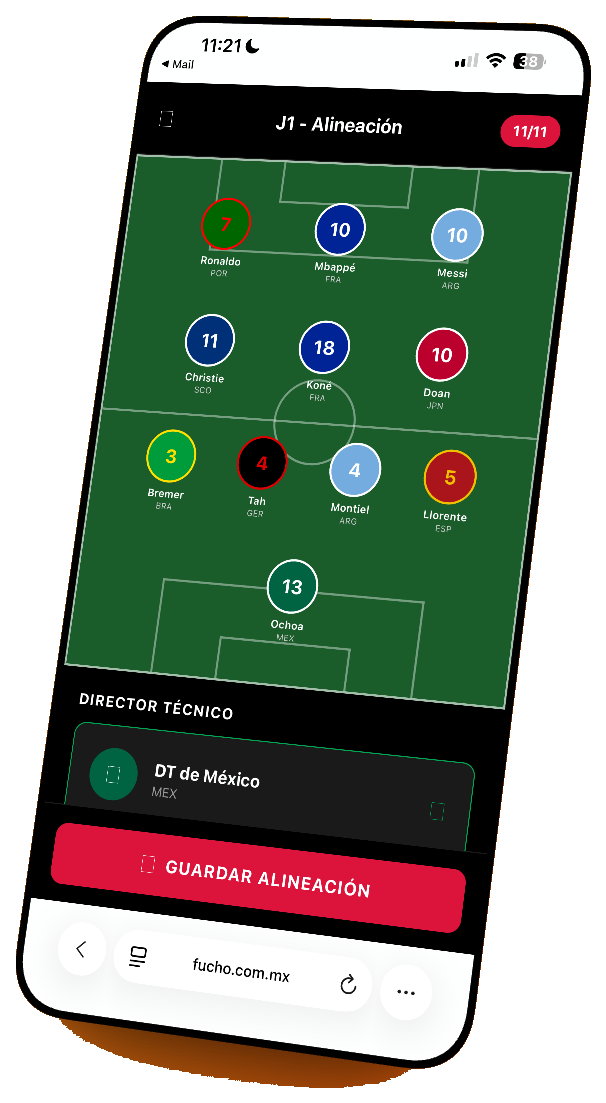
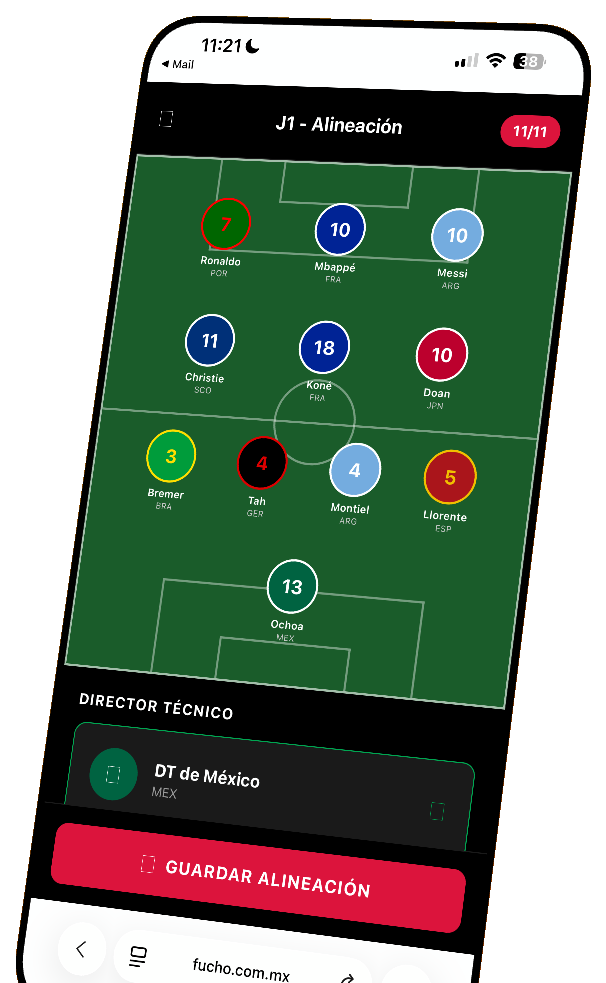
fix(landing): recortar naranja base del mockup + reemplazar Ionicons con emojis
mockup-app.png:
- Recortados 120px del fondo (naranja confirmado hasta y=1087 del total 1103px)
- Nueva dimensión: 606x983px
- Ratio actualizado en LandingPage.tsx: 0.549 → 0.617 (W*983/606)
- MOCKUP_H: 419→373, MOCKUP_H_WIDE: 537→479 (hero reajustado automáticamente)

Ionicons → emojis:
- Features primary: ⚽ FuchoQuiniela, 👕 FuchoOnce
- Features secondary: 👥 Ligas Privadas, 🏆 Logros, 📊 Rankings, 🎁 Sin costo
- Steps (desktop bubbles): 👤 crear cuenta, 👥 crear liga, ⚽ predecir
- CTA: ⚽ decorativo sobre el headline, 🚀 en el botón
- Sponsor stars: ⭐×3
- Ionicons solo queda en hero (rocket — no tocar) y sponsors (logo-whatsapp)

diff --git a/frontend/app/components/LandingPage.tsx b/frontend/app/components/LandingPage.tsx
@@ -6,15 +6,17 @@ import {
 import { useRouter } from 'expo-router';
 import { Ionicons } from '@expo/vector-icons';
 
+// Emojis en lugar de Ionicons para features/steps/CTA — los Ionicons no
+// renderizan como glifos en el build web de Expo (aparecen como cuadros vacíos)
 const PRIMARY_FEATURES = [
   {
-    icon: 'football',
+    emoji: '⚽',
     title: 'FuchoQuiniela',
     desc: 'Predice los 10 partidos de cada jornada antes de que arranquen. Cada acierto sube tu posición en el ranking de tu liga.',
     color: '#E63946',
   },
   {
-    icon: 'shirt',
+    emoji: '👕',
     title: 'FuchoOnce',
     desc: 'Selecciona 11 jugadores reales de Liga MX cada semana. Sus goles, asistencias y actuaciones se convierten en tus puntos.',
     color: '#1D88E5',
@@ -22,23 +24,23 @@ const PRIMARY_FEATURES = [
 ];
 
 const SECONDARY_FEATURES = [
-  { icon: 'people',    title: 'Ligas Privadas',     desc: 'Crea tu liga con código único. Solo entran tus cuates, nadie más.',            color: '#FFD700' },
-  { icon: 'trophy',   title: 'Logros y Rachas',     desc: '20 logros desbloqueables. Cada racha de aciertos tiene su recompensa.',        color: '#2A9D8F' },
-  { icon: 'bar-chart', title: 'Rankings en Vivo',   desc: 'Posiciones actualizadas al minuto. Sabes exactamente dónde estás.',            color: '#FF9800' },
-  { icon: 'gift',     title: 'Sin costo, sin trampa', desc: 'Gratis hoy, gratis siempre. Sin suscripciones ni cobros ocultos.',           color: '#4CAF50' },
+  { emoji: '👥', title: 'Ligas Privadas',      desc: 'Crea tu liga con código único. Solo entran tus cuates, nadie más.',             color: '#FFD700' },
+  { emoji: '🏆', title: 'Logros y Rachas',      desc: '20 logros desbloqueables. Cada racha de aciertos tiene su recompensa.',         color: '#2A9D8F' },
+  { emoji: '📊', title: 'Rankings en Vivo',     desc: 'Posiciones actualizadas al minuto. Sabes exactamente dónde estás.',             color: '#FF9800' },
+  { emoji: '🎁', title: 'Sin costo, sin trampa', desc: 'Gratis hoy, gratis siempre. Sin suscripciones ni cobros ocultos.',             color: '#4CAF50' },
 ];
 
 const STEPS = [
-  { n: '1', icon: 'person-add' as const,  t: 'Crea tu cuenta gratis',             d: 'Regístrate con tu correo en 30 segundos. Sin tarjeta, sin número de teléfono.' },
-  { n: '2', icon: 'people'     as const,  t: 'Crea tu liga y comparte el código', d: 'Tus cuates entran directo con el código. En un minuto ya están todos adentro.' },
-  { n: '3', icon: 'football'   as const,  t: 'Predice cada jornada y compite',    d: 'Antes de cada fecha, predice los 10 partidos. Al final sabes quién sabe más de fut.' },
+  { n: '1', emoji: '👤', t: 'Crea tu cuenta gratis',             d: 'Regístrate con tu correo en 30 segundos. Sin tarjeta, sin número de teléfono.' },
+  { n: '2', emoji: '👥', t: 'Crea tu liga y comparte el código', d: 'Tus cuates entran directo con el código. En un minuto ya están todos adentro.' },
+  { n: '3', emoji: '⚽', t: 'Predice cada jornada y compite',    d: 'Antes de cada fecha, predice los 10 partidos. Al final sabes quién sabe más de fut.' },
 ];
 
-// PNG: 606×1103 → ratio ancho/alto = 0.549
+// PNG: 606×983 (recortado, sin naranja) → ratio ancho/alto = 0.617
 const MOCKUP_W      = 230;
-const MOCKUP_H      = Math.round(MOCKUP_W / 0.549);
+const MOCKUP_H      = Math.round(MOCKUP_W * 983 / 606);    // 373
 const MOCKUP_W_WIDE = 295;
-const MOCKUP_H_WIDE = Math.round(MOCKUP_W_WIDE / 0.549);
+const MOCKUP_H_WIDE = Math.round(MOCKUP_W_WIDE * 983 / 606); // 479
 
 const WRAP_H      = MOCKUP_H + 40;
 const GLOW_R      = 210;
@@ -131,7 +133,7 @@ export default function LandingPage() {
             {PRIMARY_FEATURES.map((f, i) => (
               <View key={i} style={[s.featCard, { borderColor: f.color + '35' }]}>
                 <View style={[s.featCardIcon, { backgroundColor: f.color + '18', borderColor: f.color + '45' }]}>
-                  <Ionicons name={f.icon as any} size={36} color={f.color} />
+                  <Text style={s.featCardEmoji}>{f.emoji}</Text>
                 </View>
                 <Text style={s.featCardTitle}>{f.title}</Text>
                 <Text style={s.featCardDesc}>{f.desc}</Text>
@@ -142,7 +144,7 @@ export default function LandingPage() {
           PRIMARY_FEATURES.map((f, i) => (
             <View key={i} style={s.featPrimaryRow2}>
               <View style={[s.featIcon, { backgroundColor: f.color + '22', borderColor: f.color + '55' }]}>
-                <Ionicons name={f.icon as any} size={30} color={f.color} />
+                <Text style={s.featIconEmoji}>{f.emoji}</Text>
               </View>
               <View style={s.featPrimaryText}>
                 <Text style={s.featPrimaryTitle}>{f.title}</Text>
@@ -159,7 +161,7 @@ export default function LandingPage() {
           {SECONDARY_FEATURES.map((f, i) => (
             <View key={i} style={[s.featSecItem, isWide && s.featSecItemCard]}>
               <View style={[s.featSecIcon, { backgroundColor: f.color + '28', borderColor: f.color + '55', borderWidth: 1 }]}>
-                <Ionicons name={f.icon as any} size={20} color={f.color} />
+                <Text style={s.featSecEmoji}>{f.emoji}</Text>
               </View>
               <View style={{ flex: 1, minWidth: 0 }}>
                 <Text style={s.featSecTitle}>{f.title}</Text>
@@ -171,7 +173,6 @@ export default function LandingPage() {
       </View>
 
       {/* ─── 3 PASOS ─────────────────────────────────────────────────────── */}
-      {/* Wrapper full-width para que el bg #0d0d0d cubra toda la pantalla */}
       <View style={s.stepsBg}>
         <View style={s.stepsInner}>
           <Text style={[s.secTitle, isWide && s.secTitleWide]}>
@@ -183,7 +184,7 @@ export default function LandingPage() {
                 {isWide ? (
                   <>
                     <View style={s.stepBubble}>
-                      <Ionicons name={step.icon} size={26} color="#FFF" />
+                      <Text style={s.stepBubbleEmoji}>{step.emoji}</Text>
                     </View>
                     <Text style={s.stepLabel}>{step.n} de 3</Text>
                     <Text style={s.stepTitleWide}>{step.t}</Text>
@@ -222,9 +223,9 @@ export default function LandingPage() {
             <Text style={s.sponsorGoldBadgeText}>MAYOR VISIBILIDAD</Text>
           </View>
           <View style={s.sponsorStars}>
-            <Ionicons name="star" size={18} color="#FFD700" />
-            <Ionicons name="star" size={18} color="#FFD700" />
-            <Ionicons name="star" size={18} color="#FFD700" />
+            <Text style={s.sponsorStarEmoji}>⭐</Text>
+            <Text style={s.sponsorStarEmoji}>⭐</Text>
+            <Text style={s.sponsorStarEmoji}>⭐</Text>
           </View>
           <Text style={s.sponsorGoldTier}>ORO</Text>
           <Text style={s.sponsorGoldDesc}>
@@ -255,10 +256,9 @@ export default function LandingPage() {
       </View>
 
       {/* ─── CTA FINAL ────────────────────────────────────────────────────── */}
-      {/* ctaWrap full-width: el rojo cubre toda la pantalla, no solo 1100px */}
       <View style={s.ctaWrap}>
         <View style={s.ctaInner}>
-          <Ionicons name="football" size={44} color="rgba(255,255,255,0.20)" style={{ marginBottom: 20 }} />
+          <Text style={s.ctaDecorEmoji}>⚽</Text>
           <Text style={[s.ctaTitle, isWide && s.ctaTitleWide]}>
             ¿Quién de tu grupo{'\n'}sabe más de fut?
           </Text>
@@ -266,7 +266,7 @@ export default function LandingPage() {
             Crea tu quiniela ahora y demuéstralo esta jornada.
           </Text>
           <TouchableOpacity style={s.ctaBtn} onPress={() => router.push('/(auth)/register')}>
-            <Ionicons name="rocket" size={18} color="#C02030" />
+            <Text style={s.ctaBtnEmoji}>🚀</Text>
             <Text style={s.ctaBtnText}>Crear mi quiniela gratis</Text>
           </TouchableOpacity>
           <Text style={s.ctaMicro}>Sin tarjeta · Sin suscripción · 100% gratis</Text>
@@ -301,39 +301,39 @@ const s = StyleSheet.create({
     borderBottomWidth: 1, borderBottomColor: '#1a1a1a',
     width: '100%',
   },
-  navLogo:          { width: 36, height: 36, marginRight: 8 },
-  navBrand:         { color: '#FFF', fontWeight: '900', fontSize: 16, letterSpacing: 1, marginRight: 16 },
-  navBtn:           { paddingHorizontal: 16, paddingVertical: 12, marginRight: 8, minHeight: 44, justifyContent: 'center' },
-  navBtnText:       { color: '#AAA', fontSize: 14 },
-  navBtnPrimary:    { backgroundColor: '#C02030', paddingHorizontal: 16, paddingVertical: 12, borderRadius: 8, minHeight: 44, justifyContent: 'center' },
-  navBtnPrimaryText:{ color: '#FFF', fontWeight: '700', fontSize: 14 },
+  navLogo:           { width: 36, height: 36, marginRight: 8 },
+  navBrand:          { color: '#FFF', fontWeight: '900', fontSize: 16, letterSpacing: 1, marginRight: 16 },
+  navBtn:            { paddingHorizontal: 16, paddingVertical: 12, marginRight: 8, minHeight: 44, justifyContent: 'center' },
+  navBtnText:        { color: '#AAA', fontSize: 14 },
+  navBtnPrimary:     { backgroundColor: '#C02030', paddingHorizontal: 16, paddingVertical: 12, borderRadius: 8, minHeight: 44, justifyContent: 'center' },
+  navBtnPrimaryText: { color: '#FFF', fontWeight: '700', fontSize: 14 },
 
   // ─── HERO (sin cambios) ────────────────────────────────────────────────────
-  hero: { width: '100%', alignItems: 'center', paddingHorizontal: 24, paddingTop: 72, paddingBottom: 72 },
-  heroRow:    { flexDirection: 'row', alignItems: 'center', width: '100%', maxWidth: 1100, gap: 64 },
-  heroLeft:   { flex: 1, minWidth: 0 },
-  heroRight:  { width: 340, height: RIGHT_H, alignItems: 'center', justifyContent: 'center', flexShrink: 0 },
+  hero:            { width: '100%', alignItems: 'center', paddingHorizontal: 24, paddingTop: 72, paddingBottom: 72 },
+  heroRow:         { flexDirection: 'row', alignItems: 'center', width: '100%', maxWidth: 1100, gap: 64 },
+  heroLeft:        { flex: 1, minWidth: 0 },
+  heroRight:       { width: 340, height: RIGHT_H, alignItems: 'center', justifyContent: 'center', flexShrink: 0 },
   heroGlowWide: {
     position: 'absolute', alignSelf: 'center', top: GLOW_TOP_W,
     width: GLOW_R_WIDE, height: GLOW_R_WIDE, borderRadius: GLOW_R_WIDE / 2,
     backgroundColor: '#E63946', opacity: 0.22,
     ...Platform.select({ web: { filter: 'blur(90px)' } as any, default: {} }),
   },
-  heroImgWide:     { width: MOCKUP_W_WIDE, height: MOCKUP_H_WIDE },
-  heroPill:        { borderWidth: 1, borderColor: '#E6394655', borderRadius: 20, paddingHorizontal: 14, paddingVertical: 5, marginBottom: 24 },
-  heroPillText:    { color: '#E63946', fontSize: 11, fontWeight: '800', letterSpacing: 2.5 },
-  heroTitle:       { fontSize: 40, fontWeight: '900', color: '#FFF', textAlign: 'center', lineHeight: 48, marginBottom: 16 },
-  heroTitleWide:   { fontSize: 60, fontWeight: '900', color: '#FFF', lineHeight: 68, marginBottom: 24 },
-  heroSubtitle:    { fontSize: 16, color: '#999', textAlign: 'center', lineHeight: 26, marginBottom: 12 },
-  heroSubtitleWide:{ fontSize: 17, color: '#999', lineHeight: 28, marginBottom: 40 },
-  heroTagline:     { fontSize: 13, color: '#777', textAlign: 'center', letterSpacing: 0.4, marginTop: 20 },
-  heroTaglineWide: { fontSize: 13, color: '#777', letterSpacing: 0.4, marginTop: 20 },
-  heroBtns:        { flexDirection: 'row', gap: 12, flexWrap: 'wrap' },
-  heroBtnPrimary:  { flexDirection: 'row', alignItems: 'center', gap: 8, backgroundColor: '#E63946', paddingHorizontal: 28, paddingVertical: 18, borderRadius: 12 },
-  heroBtnPrimaryText:  { color: '#FFF', fontWeight: '900', fontSize: 16 },
-  heroBtnSecondary:    { paddingHorizontal: 24, paddingVertical: 18, borderRadius: 12, borderWidth: 1, borderColor: '#383838', backgroundColor: '#111', justifyContent: 'center' },
-  heroBtnSecondaryText:{ color: '#AAA', fontSize: 15 },
-  heroMockupWrap:  { alignItems: 'center', justifyContent: 'center', width: '100%', height: WRAP_H, marginTop: 8, marginBottom: 40 },
+  heroImgWide:      { width: MOCKUP_W_WIDE, height: MOCKUP_H_WIDE },
+  heroPill:         { borderWidth: 1, borderColor: '#E6394655', borderRadius: 20, paddingHorizontal: 14, paddingVertical: 5, marginBottom: 24 },
+  heroPillText:     { color: '#E63946', fontSize: 11, fontWeight: '800', letterSpacing: 2.5 },
+  heroTitle:        { fontSize: 40, fontWeight: '900', color: '#FFF', textAlign: 'center', lineHeight: 48, marginBottom: 16 },
+  heroTitleWide:    { fontSize: 60, fontWeight: '900', color: '#FFF', lineHeight: 68, marginBottom: 24 },
+  heroSubtitle:     { fontSize: 16, color: '#999', textAlign: 'center', lineHeight: 26, marginBottom: 12 },
+  heroSubtitleWide: { fontSize: 17, color: '#999', lineHeight: 28, marginBottom: 40 },
+  heroTagline:      { fontSize: 13, color: '#777', textAlign: 'center', letterSpacing: 0.4, marginTop: 20 },
+  heroTaglineWide:  { fontSize: 13, color: '#777', letterSpacing: 0.4, marginTop: 20 },
+  heroBtns:         { flexDirection: 'row', gap: 12, flexWrap: 'wrap' },
+  heroBtnPrimary:   { flexDirection: 'row', alignItems: 'center', gap: 8, backgroundColor: '#E63946', paddingHorizontal: 28, paddingVertical: 18, borderRadius: 12 },
+  heroBtnPrimaryText:   { color: '#FFF', fontWeight: '900', fontSize: 16 },
+  heroBtnSecondary:     { paddingHorizontal: 24, paddingVertical: 18, borderRadius: 12, borderWidth: 1, borderColor: '#383838', backgroundColor: '#111', justifyContent: 'center' },
+  heroBtnSecondaryText: { color: '#AAA', fontSize: 15 },
+  heroMockupWrap:   { alignItems: 'center', justifyContent: 'center', width: '100%', height: WRAP_H, marginTop: 8, marginBottom: 40 },
   heroGlow: {
     position: 'absolute', alignSelf: 'center', top: GLOW_TOP,
     width: GLOW_R, height: GLOW_R, borderRadius: GLOW_R / 2,
@@ -342,145 +342,96 @@ const s = StyleSheet.create({
   },
   heroImg: { width: MOCKUP_W, height: MOCKUP_H },
 
-  // ─── SECTION base (sin bg especial) ───────────────────────────────────────
-  section: {
-    width: '100%', maxWidth: 1100, alignSelf: 'center',
-    paddingHorizontal: 24, paddingVertical: 72,
-  },
-  secTag: { color: '#E63946', fontSize: 11, fontWeight: '800', letterSpacing: 3, marginBottom: 12, textAlign: 'center' },
-  secTitle:    { fontSize: 28, fontWeight: '900', color: '#FFF', textAlign: 'center', marginBottom: 48, lineHeight: 36 },
-  secTitleWide:{ fontSize: 38, lineHeight: 46 },
+  // ─── SECTION ──────────────────────────────────────────────────────────────
+  section:      { width: '100%', maxWidth: 1100, alignSelf: 'center', paddingHorizontal: 24, paddingVertical: 72 },
+  secTag:       { color: '#E63946', fontSize: 11, fontWeight: '800', letterSpacing: 3, marginBottom: 12, textAlign: 'center' },
+  secTitle:     { fontSize: 28, fontWeight: '900', color: '#FFF', textAlign: 'center', marginBottom: 48, lineHeight: 36 },
+  secTitleWide: { fontSize: 38, lineHeight: 46 },
 
   // ─── FEATURES primary ─────────────────────────────────────────────────────
-  // Desktop: cards lado a lado
-  featPrimaryRow: { flexDirection: 'row', gap: 20, marginBottom: 0 },
-  featCard: {
-    flex: 1, backgroundColor: '#0d0d0d', borderWidth: 1,
-    borderRadius: 16, padding: 32,
-  },
-  featCardIcon: {
-    width: 76, height: 76, borderRadius: 20, borderWidth: 1,
-    justifyContent: 'center', alignItems: 'center', marginBottom: 22,
-  },
-  featCardTitle: { color: '#FFF', fontWeight: '900', fontSize: 22, marginBottom: 10 },
-  featCardDesc:  { color: '#888', fontSize: 15, lineHeight: 24 },
+  featPrimaryRow: { flexDirection: 'row', gap: 20 },
+  featCard:       { flex: 1, backgroundColor: '#0d0d0d', borderWidth: 1, borderRadius: 16, padding: 32 },
+  featCardIcon:   { width: 76, height: 76, borderRadius: 20, borderWidth: 1, justifyContent: 'center', alignItems: 'center', marginBottom: 22 },
+  featCardEmoji:  { fontSize: 34, lineHeight: 40 },
+  featCardTitle:  { color: '#FFF', fontWeight: '900', fontSize: 22, marginBottom: 10 },
+  featCardDesc:   { color: '#888', fontSize: 15, lineHeight: 24 },
 
-  // Mobile: rows
   featPrimaryRow2: { flexDirection: 'row', marginBottom: 28, alignItems: 'flex-start' },
-  featIcon: { width: 64, height: 64, borderRadius: 16, borderWidth: 1, justifyContent: 'center', alignItems: 'center', marginRight: 20, flexShrink: 0 },
+  featIcon:        { width: 64, height: 64, borderRadius: 16, borderWidth: 1, justifyContent: 'center', alignItems: 'center', marginRight: 20, flexShrink: 0 },
+  featIconEmoji:   { fontSize: 28, lineHeight: 34 },
   featPrimaryText:  { flex: 1, paddingTop: 6, minWidth: 0 },
   featPrimaryTitle: { color: '#FFF', fontWeight: '900', fontSize: 20, marginBottom: 6 },
   featPrimaryDesc:  { color: '#888', fontSize: 14, lineHeight: 22 },
 
-  // Divider entre primary y secondary
   featDivider: { height: 1, backgroundColor: '#1c1c1c', marginTop: 48, marginBottom: 48 },
 
   // ─── FEATURES secondary ───────────────────────────────────────────────────
   featSecGrid:     { gap: 14 },
-  featSecGridWide: {
-    flexDirection: 'row', flexWrap: 'wrap', gap: 16,
-    maxWidth: 820, alignSelf: 'center', width: '100%',
-  },
+  featSecGridWide: { flexDirection: 'row', flexWrap: 'wrap', gap: 16, maxWidth: 820, alignSelf: 'center', width: '100%' },
   featSecItem:     { flexDirection: 'row', gap: 14, alignItems: 'flex-start' },
-  featSecItemCard: {
-    width: '47%',
-    backgroundColor: '#0d0d0d', borderWidth: 1,
-    borderColor: '#1e1e1e', borderRadius: 14, padding: 20,
-  },
-  featSecIcon: { width: 42, height: 42, borderRadius: 12, justifyContent: 'center', alignItems: 'center', flexShrink: 0, marginTop: 1 },
-  featSecTitle: { color: '#FFF', fontWeight: '700', fontSize: 14, marginBottom: 4 },
-  featSecDesc:  { color: '#777', fontSize: 13, lineHeight: 19 },
+  featSecItemCard: { width: '47%', backgroundColor: '#0d0d0d', borderWidth: 1, borderColor: '#1e1e1e', borderRadius: 14, padding: 20 },
+  featSecIcon:     { width: 42, height: 42, borderRadius: 12, justifyContent: 'center', alignItems: 'center', flexShrink: 0, marginTop: 1 },
+  featSecEmoji:    { fontSize: 20, lineHeight: 24 },
+  featSecTitle:    { color: '#FFF', fontWeight: '700', fontSize: 14, marginBottom: 4 },
+  featSecDesc:     { color: '#777', fontSize: 13, lineHeight: 19 },
 
   // ─── 3 PASOS ──────────────────────────────────────────────────────────────
-  // Full-width bg: wrapper abarca toda la pantalla, inner centra el contenido
   stepsBg:    { width: '100%', backgroundColor: '#0d0d0d' },
   stepsInner: { width: '100%', maxWidth: 1100, alignSelf: 'center', paddingHorizontal: 24, paddingVertical: 72 },
-
   stepsStack:   { gap: 14, maxWidth: 560, alignSelf: 'center', width: '100%' },
   stepsColumns: { flexDirection: 'row', gap: 20, maxWidth: 940, alignSelf: 'center', width: '100%' },
 
-  stepCard: {
-    flexDirection: 'row', alignItems: 'flex-start',
-    backgroundColor: '#141414', borderRadius: 14, padding: 20, gap: 16,
-  },
-  stepCardWide: {
-    flex: 1, flexDirection: 'column', alignItems: 'flex-start',
-    backgroundColor: '#141414', borderRadius: 16, padding: 28, gap: 0,
-  },
+  stepCard:     { flexDirection: 'row', alignItems: 'flex-start', backgroundColor: '#141414', borderRadius: 14, padding: 20, gap: 16 },
+  stepCardWide: { flex: 1, flexDirection: 'column', alignItems: 'flex-start', backgroundColor: '#141414', borderRadius: 16, padding: 28 },
 
-  // Mobile step internals
   stepNum:     { width: 48, height: 48, borderRadius: 24, backgroundColor: '#E63946', justifyContent: 'center', alignItems: 'center', flexShrink: 0 },
   stepNumText: { color: '#FFF', fontWeight: '900', fontSize: 20 },
   stepTitle:   { color: '#FFF', fontWeight: '700', fontSize: 16, marginBottom: 4 },
   stepDesc:    { color: '#888', fontSize: 13, lineHeight: 19 },
 
-  // Desktop step internals
-  stepBubble:    { width: 60, height: 60, borderRadius: 30, backgroundColor: '#E63946', justifyContent: 'center', alignItems: 'center', marginBottom: 18 },
-  stepLabel:     { color: '#E63946', fontSize: 11, fontWeight: '800', letterSpacing: 2.5, marginBottom: 10 },
-  stepTitleWide: { color: '#FFF', fontWeight: '900', fontSize: 18, lineHeight: 24, marginBottom: 8 },
-  stepDescWide:  { color: '#888', fontSize: 13, lineHeight: 20 },
+  stepBubble:      { width: 60, height: 60, borderRadius: 30, backgroundColor: '#E63946', justifyContent: 'center', alignItems: 'center', marginBottom: 18 },
+  stepBubbleEmoji: { fontSize: 26, lineHeight: 30 },
+  stepLabel:       { color: '#E63946', fontSize: 11, fontWeight: '800', letterSpacing: 2.5, marginBottom: 10 },
+  stepTitleWide:   { color: '#FFF', fontWeight: '900', fontSize: 18, lineHeight: 24, marginBottom: 8 },
+  stepDescWide:    { color: '#888', fontSize: 13, lineHeight: 20 },
 
   // ─── PATROCINADORES ───────────────────────────────────────────────────────
-  sponsorSub: {
-    color: '#888', fontSize: 15, textAlign: 'center', marginBottom: 44,
-    maxWidth: 520, alignSelf: 'center', lineHeight: 24,
-  },
+  sponsorSub: { color: '#888', fontSize: 15, textAlign: 'center', marginBottom: 44, maxWidth: 520, alignSelf: 'center', lineHeight: 24 },
 
-  // ORO — card destacado (más grande, fondo dorado tenue, estrellas)
   sponsorGold: {
     backgroundColor: '#110d00', borderWidth: 1, borderColor: '#FFD70045',
     borderRadius: 16, padding: 36, alignItems: 'center',
     maxWidth: 480, alignSelf: 'center', width: '100%', marginBottom: 16,
   },
-  sponsorGoldBadge: {
-    backgroundColor: '#FFD70015', borderWidth: 1, borderColor: '#FFD70040',
-    borderRadius: 20, paddingHorizontal: 12, paddingVertical: 4, marginBottom: 16,
-  },
+  sponsorGoldBadge:     { backgroundColor: '#FFD70015', borderWidth: 1, borderColor: '#FFD70040', borderRadius: 20, paddingHorizontal: 12, paddingVertical: 4, marginBottom: 16 },
   sponsorGoldBadgeText: { color: '#FFD700', fontSize: 10, fontWeight: '800', letterSpacing: 2.5 },
-  sponsorStars:         { flexDirection: 'row', gap: 6, marginBottom: 12 },
+  sponsorStars:         { flexDirection: 'row', gap: 4, marginBottom: 12 },
+  sponsorStarEmoji:     { fontSize: 18, lineHeight: 22 },
   sponsorGoldTier:      { color: '#FFD700', fontWeight: '900', fontSize: 30, letterSpacing: 4, marginBottom: 12 },
   sponsorGoldDesc:      { color: '#CCC', fontSize: 15, textAlign: 'center', lineHeight: 23 },
 
-  // PLATA + BRONCE
-  sponsorRow: {
-    flexDirection: 'row', gap: 12, justifyContent: 'center',
-    flexWrap: 'wrap', marginBottom: 40,
-    maxWidth: 480, alignSelf: 'center', width: '100%',
-  },
+  sponsorRow:  { flexDirection: 'row', gap: 12, justifyContent: 'center', flexWrap: 'wrap', marginBottom: 40, maxWidth: 480, alignSelf: 'center', width: '100%' },
   sponsorCard: { flex: 1, minWidth: 130, borderWidth: 1, borderRadius: 12, padding: 24, alignItems: 'center', backgroundColor: '#0d0d0d' },
   sponsorTier: { fontWeight: '900', fontSize: 16, letterSpacing: 2, marginBottom: 8 },
   sponsorDesc: { color: '#777', fontSize: 12, textAlign: 'center', lineHeight: 18 },
 
-  sponsorBtn: {
-    flexDirection: 'row', alignItems: 'center', gap: 10,
-    backgroundColor: '#25D366', paddingHorizontal: 28, paddingVertical: 16,
-    borderRadius: 12, alignSelf: 'center',
-  },
+  sponsorBtn:     { flexDirection: 'row', alignItems: 'center', gap: 10, backgroundColor: '#25D366', paddingHorizontal: 28, paddingVertical: 16, borderRadius: 12, alignSelf: 'center' },
   sponsorBtnText: { color: '#FFF', fontWeight: '700', fontSize: 16 },
 
   // ─── CTA FINAL ────────────────────────────────────────────────────────────
-  // ctaWrap full-width: el rojo cubre toda la pantalla sin corte de maxWidth
-  ctaWrap:  { width: '100%', backgroundColor: '#C02030' },
-  ctaInner: {
-    maxWidth: 680, alignSelf: 'center', width: '100%',
-    paddingHorizontal: 24, paddingVertical: 80, alignItems: 'center',
-  },
-  ctaTitle:     { fontSize: 30, fontWeight: '900', color: '#FFF', textAlign: 'center', lineHeight: 38, marginBottom: 16 },
-  ctaTitleWide: { fontSize: 42, lineHeight: 50 },
-  ctaSub:       { fontSize: 17, color: 'rgba(255,255,255,0.80)', textAlign: 'center', lineHeight: 26 },
-  ctaBtn: {
-    flexDirection: 'row', alignItems: 'center', gap: 8,
-    backgroundColor: '#FFF', paddingHorizontal: 36, paddingVertical: 18,
-    borderRadius: 12, marginTop: 36,
-  },
-  ctaBtnText: { color: '#C02030', fontWeight: '900', fontSize: 16 },
-  ctaMicro:   { color: 'rgba(255,255,255,0.50)', fontSize: 13, marginTop: 16, letterSpacing: 0.3 },
+  ctaWrap:       { width: '100%', backgroundColor: '#C02030' },
+  ctaInner:      { maxWidth: 680, alignSelf: 'center', width: '100%', paddingHorizontal: 24, paddingVertical: 80, alignItems: 'center' },
+  ctaDecorEmoji: { fontSize: 44, lineHeight: 52, marginBottom: 20, opacity: 0.4 },
+  ctaTitle:      { fontSize: 30, fontWeight: '900', color: '#FFF', textAlign: 'center', lineHeight: 38, marginBottom: 16 },
+  ctaTitleWide:  { fontSize: 42, lineHeight: 50 },
+  ctaSub:        { fontSize: 17, color: 'rgba(255,255,255,0.80)', textAlign: 'center', lineHeight: 26 },
+  ctaBtn:        { flexDirection: 'row', alignItems: 'center', gap: 8, backgroundColor: '#FFF', paddingHorizontal: 36, paddingVertical: 18, borderRadius: 12, marginTop: 36 },
+  ctaBtnEmoji:   { fontSize: 16, lineHeight: 20 },
+  ctaBtnText:    { color: '#C02030', fontWeight: '900', fontSize: 16 },
+  ctaMicro:      { color: 'rgba(255,255,255,0.50)', fontSize: 13, marginTop: 16, letterSpacing: 0.3 },
 
   // ─── FOOTER ───────────────────────────────────────────────────────────────
-  footer: {
-    alignItems: 'center', paddingVertical: 48,
-    borderTopWidth: 1, borderTopColor: '#1a1a1a', width: '100%',
-  },
+  footer:        { alignItems: 'center', paddingVertical: 48, borderTopWidth: 1, borderTopColor: '#1a1a1a', width: '100%' },
   footerLogo:    { width: 60, height: 60, marginBottom: 8 },
   footerBrand:   { color: '#FFF', fontWeight: '900', fontSize: 18, letterSpacing: 1 },
   footerSub:     { color: '#888', fontSize: 14, marginTop: 4, marginBottom: 16 },
